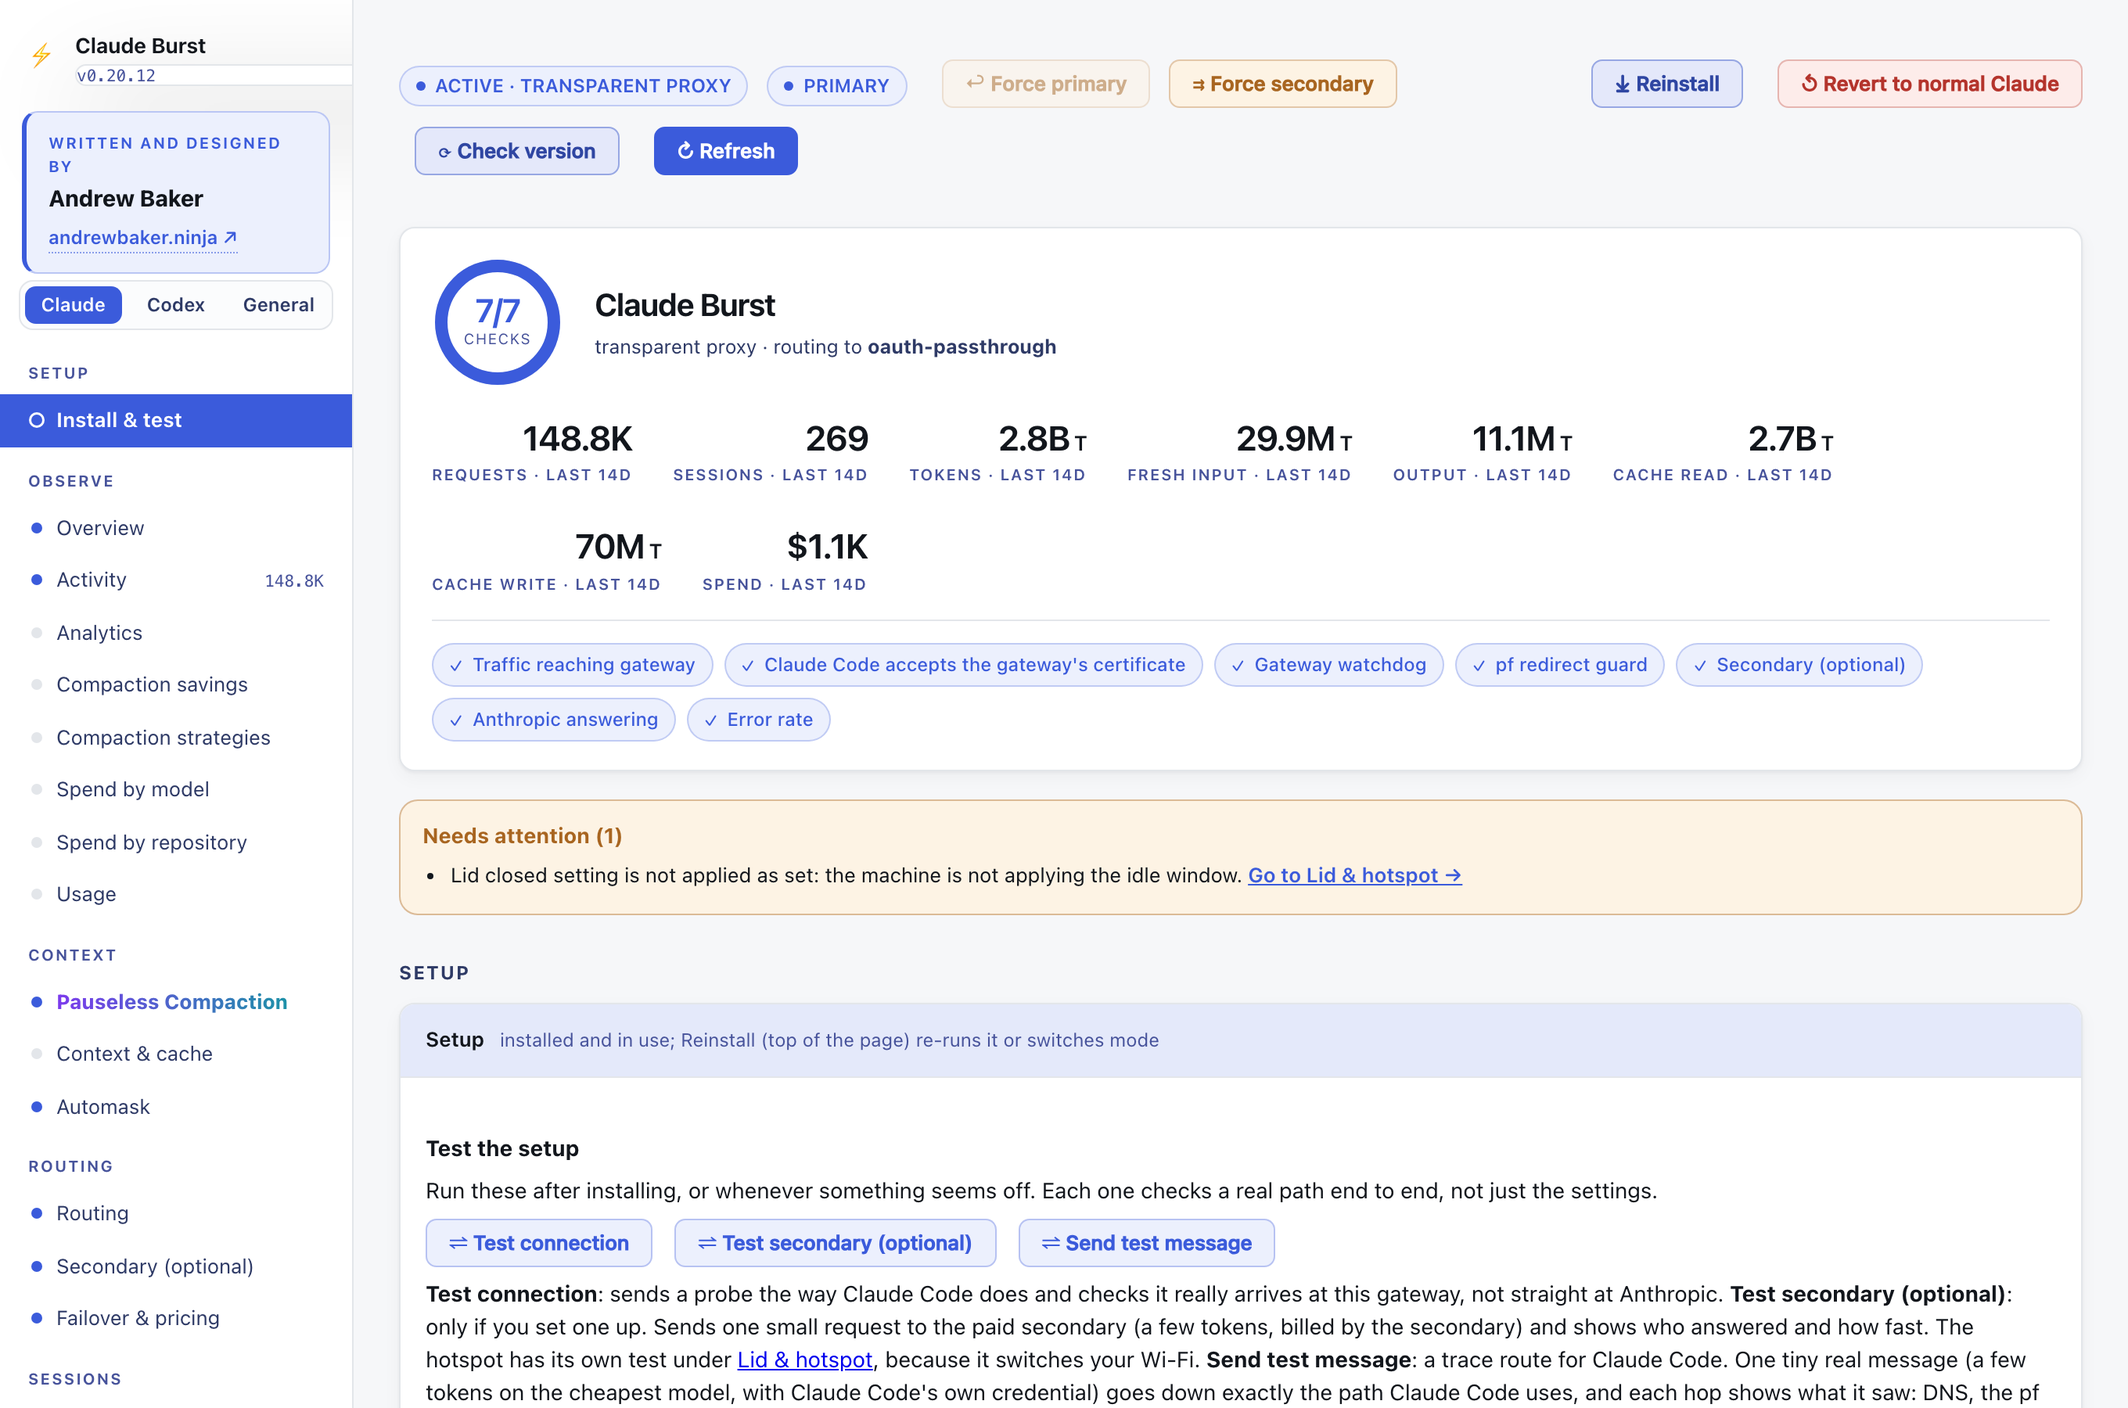
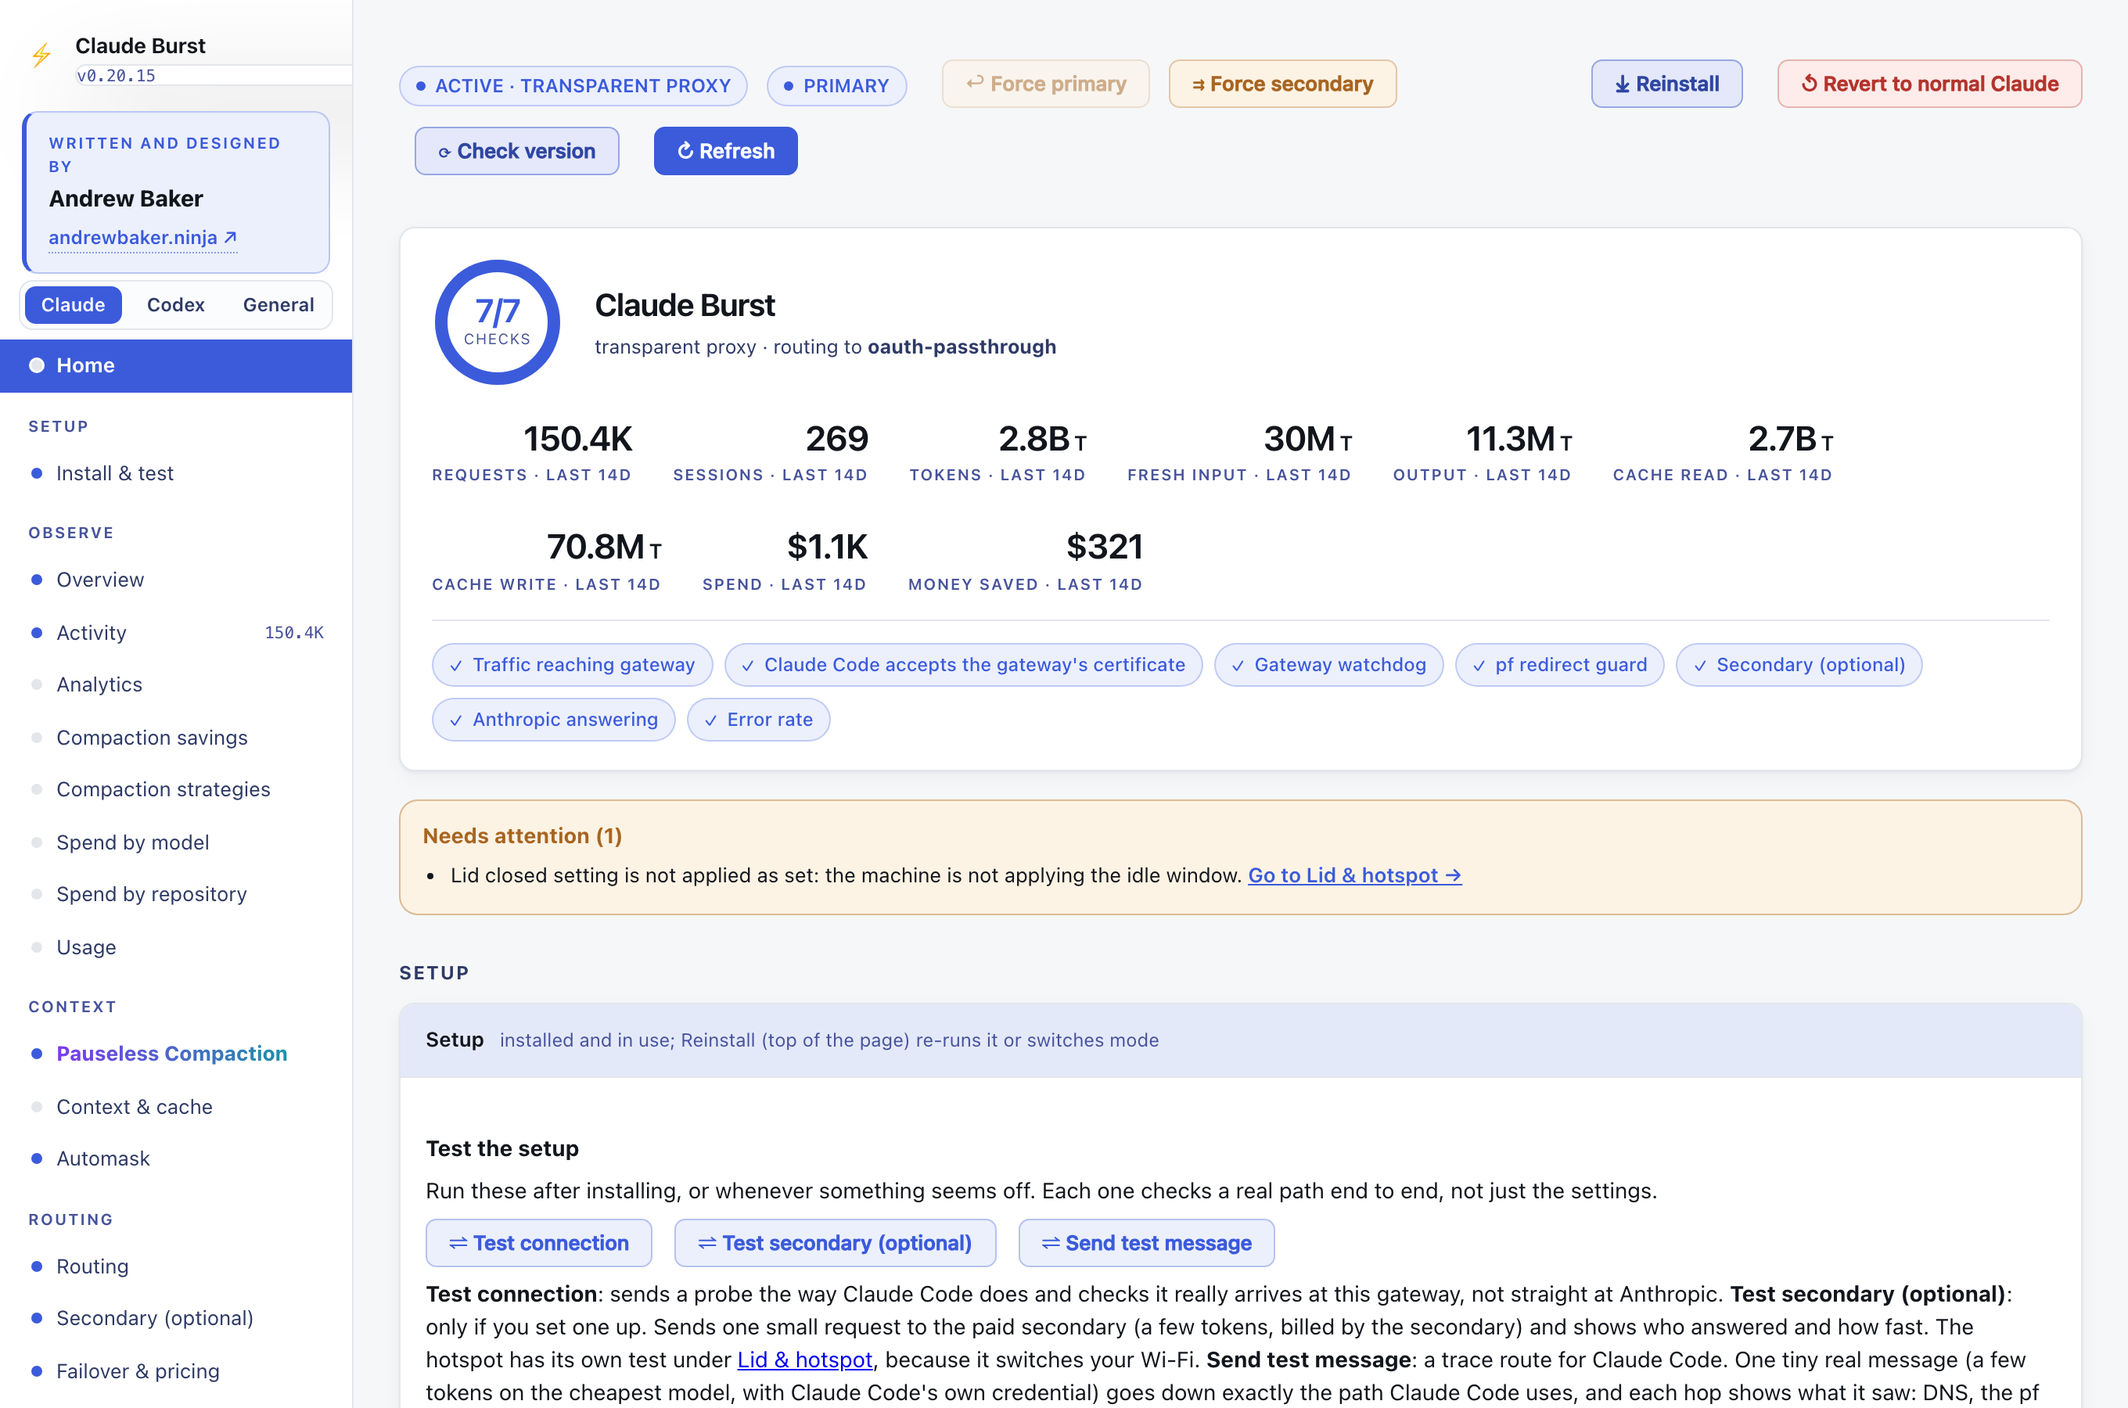
The context inspector shows a session on a message thread by that thread after a gateway restart (nothing listed and how many requests behind, until the conversation is next sent whole) instead of by a helper request of its own, the top tiles gain Money saved over the same days as the others, and th

diff --git a/internal/admin/admin.html b/internal/admin/admin.html
@@ -855,6 +855,8 @@
     <button type="button" class="tab" data-tab="general" role="tab">General</button>
   </div>
 
+  <a class="navlink" id="navHome" data-target="~home" href="#" title="Back to the top of the page"><span class="nd"></span><span class="label">Home</span></a>
+
   <div class="navgroup" data-tab="codex">Codex</div>
   <a class="navlink" data-target="sec-codex"><span class="nd" id="nd-codex"></span><span class="label">Overview</span></a>
   <a class="navlink" data-target="sec-codex-insights"><span class="nd" id="nd-codex-insights"></span><span class="label">Insights</span></a>
@@ -3115,6 +3117,7 @@ function renderCompaction(s) {
     [sv.money.value, sv.money.text, sv.money.title],
   ].map(([v, t, tip]) => `<div class="pc-stat"${tip ? ` title="${esc(tip)}"` : ""}><div class="v">${v}</div><div class="k">${esc(t).replace(/^([^\n]*)\n/, '<b style="color:var(--text)">$1</b><br>').replace(/\n/g, "<br>")}</div></div>`).join("");
   lastSavings = cs.daily || null;
+  if (lastState) renderHero(lastState);
   drawSavingsChart();
   lastStrategies = c.compaction_strategies || null;
   drawStrategies();
@@ -4145,6 +4148,13 @@ function drawChecks(ids, checks) {
   return state;
 }
 
+// savedOn is compaction's net saving on the given dates, from the savings
+// chart's days; null before those have loaded. Pure, for page_script_test.go.
+function savedOn(daily, dates) {
+  if (!daily) return null;
+  const want = new Set(dates);
+  return daily.reduce((a, d) => a + (want.has(d.date) ? d.net_usd || 0 : 0), 0);
+}
 function renderHero(s) {
   heroMode = s.intercept.mode;
   drawChecks({meter: "meter", fill: "meterFill", num: "meterNum", of: "meterOf", checks: "heroChecks", fix: "heroFix"},
@@ -4161,6 +4171,7 @@ function renderHero(s) {
   const h = lastHistory;
   const span = h ? `last ${h.days.length}d` : "";
   const w = (h && h.window) || {};
+  const saved = h ? savedOn(lastSavings, h.days.map(d => d.date)) : null;
   $("heroKpis").innerHTML = [
     [compact(w.Requests), "requests"],
     [compact(h ? h.sessions : 0), "sessions"],
@@ -4175,6 +4186,9 @@ function renderHero(s) {
     [compact(w.CacheReadTokens), "cache read", "Input tokens read back from the prompt cache", "T"],
     [compact(w.CacheWriteTokens), "cache write", "Input tokens written to the prompt cache", "T"],
     [compactMoney(w.APIEquivalentUSD), "spend"],
+    // Beside the spend it came off: the same days, after compaction's costs.
+    [saved === null ? "-" : (saved < 0 ? "-" : "") + compactMoney(Math.abs(saved)), "money saved",
+      "What Pauseless Compaction saved on these days after its own costs (summaries and cache rewrites), in API-equivalent dollars: on a subscription the saving is your limits lasting longer"],
   // "T" marks a count of tokens: a bare 2.7B beside a count of requests
   // and a dollar figure does not say what it counts.
   ].map(([v, k, tip, unit]) => `<div class="kpi"${tip ? ` title="${esc(tip)}"` : ""}><div class="v">${esc(v)}${
@@ -4322,7 +4336,9 @@ function syncNavActive() {
   }
   // At the very bottom the last sections can never reach the line.
   if (innerHeight + scrollY >= document.documentElement.scrollHeight - 4 && lastVisible) best = lastVisible;
-  // Above the first section's line (the top of the page): the first one shown.
+  // At the top of the page: Home. Above the first section's line
+  // otherwise: the first one shown.
+  if (scrollY < 40) best = "~home";
   if (!best) best = NAV_TARGETS.find(id => shown($(id))) || null;
   document.querySelectorAll(".navlink").forEach(a =>
     a.classList.toggle("on", a.dataset.target === best));
@@ -4336,6 +4352,14 @@ function syncNavActive() {
   }
 }
 window.addEventListener("scroll", syncNavActive, {passive: true});
+// Home is no section's entry: it is the top of the page, on every tab.
+$("navHome").addEventListener("click", e => {
+  e.preventDefault();
+  navPin = null;
+  const reduce = window.matchMedia && matchMedia("(prefers-reduced-motion: reduce)").matches;
+  scrollTo({top: 0, behavior: reduce ? "auto" : "smooth"});
+  setTimeout(syncNavActive, 400);
+});
 
 // Layout changes without a scroll (a section loading or collapsing) move the
 // sections under a still viewport; without this the rail kept marking the
@@ -5105,7 +5129,7 @@ function setTab(tab) {
   const closeGroup = () => { if (group) group.classList.toggle("tab-off", !any); };
   document.querySelectorAll(".side .navgroup, .side .navlink").forEach(n => {
     if (n.classList.contains("navgroup")) { closeGroup(); group = n; any = false; return; }
-    const on = tabOf(n.dataset.target) === tab;
+    const on = n.id === "navHome" || tabOf(n.dataset.target) === tab;
     n.classList.toggle("tab-off", !on);
     any = any || on;
   });
@@ -6739,7 +6763,8 @@ function makeInspector(o) {
     $(o.summary).innerHTML = `<b>${esc(d.repo || "?")}</b> <span class="hint">&middot; ${esc(d.model)} &middot; ${d.prompts} prompts &middot; ${inTok(d.context || total)} tokens${d.estimate ? " (estimated: no reply reported the size yet)" : ""} &middot; as sent at ${esc(stamp(d.at))}</span> ` +
       (d.flagged ? `<span class="pill s">${d.flagged} worth a look</span>` : `<span class="pill p">nothing flagged</span>`) +
       (removed ? ` <span class="pill">${removed} removed by you</span>` : "");
-    if (d.since) $(o.summary).innerHTML += `<div class="hint" style="margin-top:6px">${d.since} ${d.since === 1 ? "request" : "requests"} since then added to it and ${d.since === 1 ? "is" : "are"} not listed: this session sends only what is new with each request. A prune, or <b>Bring up to date</b>, has the whole conversation asked for with its next request.</div>`;
+    if (d.since && !d.items.length) $(o.summary).innerHTML += `<div class="hint" style="margin-top:6px">Nothing to list yet: since the gateway last started this session has sent only what is new with each request (${d.since} so far). <b>Bring up to date</b> has the whole conversation asked for with its next request.</div>`;
+    else if (d.since) $(o.summary).innerHTML += `<div class="hint" style="margin-top:6px">${d.since} ${d.since === 1 ? "request" : "requests"} since then added to it and ${d.since === 1 ? "is" : "are"} not listed: this session sends only what is new with each request. A prune, or <b>Bring up to date</b>, has the whole conversation asked for with its next request.</div>`;
     if (o.prune) $("inRefresh").hidden = !d.since;
     const sh = inShares(d.items), pc = x => x < 0.005 ? "<1%" : Math.round(x * 100) + "%";
     const colorOf = name => (sh.groups.find(g => g.name === name) || {}).color || "";

diff --git a/internal/router/inspect.go b/internal/router/inspect.go
@@ -34,6 +34,10 @@ type captured struct {
 	msgs    int
 	at      time.Time
 	since   int // requests that continued its thread since: not in body
+	// cont is when a request last continued its thread. A conversation on a
+	// thread is the session's own: body is empty when none of its requests
+	// has been sent whole since the gateway started.
+	cont time.Time
 }
 
 const (
@@ -76,12 +80,27 @@ func (s *Server) captureForInspect(r *http.Request, body []byte) {
 	st.mu.Lock()
 	defer st.mu.Unlock()
 	if ci.thread || top.Thread.Type == "continue" {
-		if c := st.reqs[key]; c != nil {
-			c.since++
+		// With no whole request on record (the gateway restarted under the
+		// session) it is still noted: otherwise a smaller conversation sent
+		// whole, one of the session's own helpers, would stand for it.
+		c := st.reqs[key]
+		if c == nil {
+			c = &captured{session: sid, model: top.Model, at: time.Now()}
+			st.reqs[key] = c
 		}
+		c.since++
+		c.cont = time.Now()
 		return
 	}
 	st.reqs[key] = &captured{session: sid, model: top.Model, body: body, msgs: len(top.Messages), at: time.Now()}
+	// A thread known only by its last response comes back whole under its
+	// real name: the note kept for it has done its work. The model tells it
+	// from a helper's request, which leaves the note alone.
+	for k, c := range st.reqs {
+		if k != key && c.session == sid && len(c.body) == 0 && c.model == top.Model {
+			delete(st.reqs, k)
+		}
+	}
 	if len(st.reqs) > inspectMaxReqs {
 		cut := time.Now().Add(-inspectKeep)
 		var oldest string
@@ -124,6 +143,19 @@ func (st *inspectStore) asked(sid string) {
 	st.mu.Unlock()
 }
 
+// standsFor says c, not b, is the conversation a session is shown by: the
+// one on a message thread (the latest continued, when several), its largest
+// otherwise. A session's subagents and helpers share its id.
+func standsFor(c, b *captured) bool {
+	if b == nil {
+		return true
+	}
+	if !c.cont.IsZero() || !b.cont.IsZero() {
+		return c.cont.After(b.cont)
+	}
+	return len(c.body) > len(b.body)
+}
+
 // InspectSession is one session the inspector can show.
 type InspectSession struct {
 	Session  string    `json:"session"`
@@ -135,12 +167,12 @@ type InspectSession struct {
 }
 
 // InspectSessions lists the sessions with a captured request, newest first.
-// A session's subagents share its id; its largest conversation stands for it.
+// A session's subagents share its id; standsFor picks its conversation.
 func (s *Server) InspectSessions() []InspectSession {
 	s.inspect.mu.Lock()
 	best := map[string]*captured{}
 	for _, c := range s.inspect.reqs {
-		if b := best[c.session]; b == nil || len(c.body) > len(b.body) {
+		if standsFor(c, best[c.session]) {
 			best[c.session] = c
 		}
 	}
@@ -193,7 +225,7 @@ func (s *Server) InspectContext(sid string) *ContextReport {
 	s.inspect.mu.Lock()
 	var c *captured
 	for _, x := range s.inspect.reqs {
-		if x.session == sid && (c == nil || len(x.body) > len(c.body)) {
+		if x.session == sid && standsFor(x, c) {
 			c = x
 		}
 	}
@@ -211,6 +243,11 @@ func (s *Server) InspectContext(sid string) *ContextReport {
 	// compaction the largest is the one the summary replaced.
 	if main := MainConversation(s.CompactionSessions(), sid); main != nil {
 		rep.Context = main.Context
+	}
+	if len(c.body) == 0 {
+		// Nothing sent whole yet: the report says how far behind it is.
+		rep.Items = []ContextItem{}
+		return rep
 	}
 	rep.Items, rep.Prompts = contextItems(c.body)
 	rep.Estimate = ctxview.Scale(rep.Items, rep.Context, rep.Prompts)

diff --git a/internal/router/inspect_remove_test.go b/internal/router/inspect_remove_test.go
@@ -1,8 +1,10 @@
 package router
 
 import (
+	"bytes"
 	"context"
 	"encoding/json"
+	"net/http"
 	"net/http/httptest"
 	"strings"
 	"testing"
@@ -259,5 +261,35 @@ func TestAPruneOnAThreadAsksForTheHistory(t *testing.T) {
 	// Asked once: the thread goes on as any other.
 	if rec := continueThread(t, s, "T", "msg_03", toolResult("three")); rec.Code != 200 {
 		t.Fatalf("asked for the history twice: %d %s", rec.Code, rec.Body)
+	}
+}
+
+// After a restart a session on a message thread has sent nothing whole, and
+// a helper of its own (a small model, one message) has. The helper must not
+// stand for the session: the inspector shows nothing listed and how many
+// requests it is behind, until the conversation is next sent whole.
+func TestAHelperRequestDoesNotStandForAThreadAfterARestart(t *testing.T) {
+	a := &threadAPI{ctx: 90_000}
+	s := threadServer(t, a, config.CompactionConfig{Enabled: true, CompactAtTokens: 200_000, WarnAtPercent: 75, WindowMinutes: 60})
+	helper, _ := json.Marshal(map[string]any{"model": "claude-haiku-4-5", "max_tokens": 100, "system": strings.Repeat("big ", 50),
+		"messages": []any{map[string]any{"role": "user", "content": "name this session"}}})
+	req := httptest.NewRequest(http.MethodPost, "http://127.0.0.1/v1/messages", bytes.NewReader(helper))
+	req.Header.Set("x-claude-code-session-id", "T")
+	req.Header.Set("authorization", "Bearer oauth")
+	s.ServeHTTP(httptest.NewRecorder(), req)
+	if rec := continueThread(t, s, "T", "msg_from_before_the_restart", toolResult("one")); rec.Code != 200 {
+		t.Fatalf("the thread goes on: %d %s", rec.Code, rec.Body)
+	}
+	rep := s.InspectContext("T")
+	if rep == nil || len(rep.Items) != 0 || rep.Since != 1 || rep.Model != "claude-opus-5-5" {
+		t.Fatalf("want the thread, nothing listed and one request behind: %v", rep != nil)
+	}
+	if l := s.InspectSessions(); len(l) != 1 || l[0].Model != "claude-opus-5-5" {
+		t.Fatalf("the session is listed by its thread: %+v", l)
+	}
+	history := []json.RawMessage{json.RawMessage(`{"role":"user","content":"hello` + strings.Repeat(" there", 200) + `"}`), json.RawMessage(`{"role":"assistant","content":"hi"}`), json.RawMessage(`{"role":"user","content":"go on"}`)}
+	send(t, s, "T", history)
+	if rep := s.InspectContext("T"); rep == nil || rep.Since != 0 || rep.Prompts != 2 {
+		t.Fatalf("sent whole, the conversation is what the inspector shows: %v", rep != nil)
 	}
 }

diff --git a/internal/admin/page_script_test.go b/internal/admin/page_script_test.go
@@ -406,3 +406,15 @@ out({big: names("size", true), small: names("size", false), old: names("age", fa
 		}
 	}
 }
+
+// The Money saved tile sums compaction's net saving over the days the other
+// tiles cover, and has nothing to show before the savings have loaded.
+func TestSavedOnTheTilesDays(t *testing.T) {
+	var got []*float64
+	runPageJS(t, []string{"savedOn"}, `
+const daily = [{date: "2026-10-01", net_usd: 5}, {date: "2026-10-02", net_usd: -1.5}, {date: "2026-10-03", net_usd: 7}, {date: "2026-10-04"}];
+out([savedOn(daily, ["2026-10-02", "2026-10-03", "2026-10-04", "2026-10-05"]), savedOn(null, ["2026-10-02"]), savedOn([], [])]);`, &got)
+	if len(got) != 3 || got[0] == nil || *got[0] != 5.5 || got[1] != nil || got[2] == nil || *got[2] != 0 {
+		t.Fatalf("got %v", got)
+	}
+}

diff --git a/internal/router/inspect_prune.go b/internal/router/inspect_prune.go
@@ -92,7 +92,7 @@ func pruneMatches(items []ContextItem, what string) (hit []int, kept int) {
 // been seen since the gateway started.
 func (s *Server) PruneContext(sid, what string) (*PruneResult, error) {
 	rep := s.InspectContext(sid)
-	if rep == nil {
+	if rep == nil || (len(rep.Items) == 0 && rep.Since > 0) {
 		s.WantHistory(sid, "its context is to be pruned, and nothing of it has been seen whole")
 		return nil, nil
 	}

diff --git a/cmd/claude-burst/main.go b/cmd/claude-burst/main.go
@@ -10,7 +10,7 @@ import (
 	"github.com/andrewbakercloudscale/claude-burst/internal/touchid"
 )
 
-const version = "0.20.14"
+const version = "0.20.15"
 
 func main() {
 	if len(os.Args) < 2 {

diff --git a/docs/dashboard.md b/docs/dashboard.md
@@ -61,6 +61,8 @@ Screenshots are of the real dashboard with repository names, paths, session task
 
 ## Analytics
 
+The tiles at the top of the page count the charted window: requests, sessions, tokens by kind, spend, and **Money saved**, which is what Pauseless Compaction saved on those days after its own costs. **Home**, the first entry of the menu, goes back to them from anywhere.
+
 Everything under **Observe** reads the same log, `metrics.jsonl`, and every dollar figure is API-equivalent: on a subscription it is what the same tokens would have cost on the API.
 
 **Daily activity** is a bar per day, as tokens, requests, spend or what was saved.
@@ -238,7 +240,7 @@ The cache holds exactly what was last sent, so the inspector's list is the conte
 - Either one changes everything after that point for the prompt cache, so the next request is a one-off cache write.
 - Removals are applied after Burst's own compaction, so they never change what it summarises or its hashes.
 - They are kept in `~/.config/claude-burst/context-removals.json` (ids, names and sizes only, never content), so a restart keeps them. A session not touched for 14 days is dropped.
-- Click an item for its full text. The latest request of each conversation is kept in the gateway's memory only, never on disk, and is gone after a restart.
+- Click an item for its full text. The latest request of each conversation is kept in the gateway's memory only, never on disk, and is gone after a restart. A session that sends only what is new with each request then has nothing to list until its conversation is next sent whole: the inspector says so, with how many requests it has seen, and **Bring up to date** asks for it.
 - The same inspector is on the Codex tab for Codex sessions: see [Codex](codex.md#the-codex-tab).
 
 ## Failover & pricing
